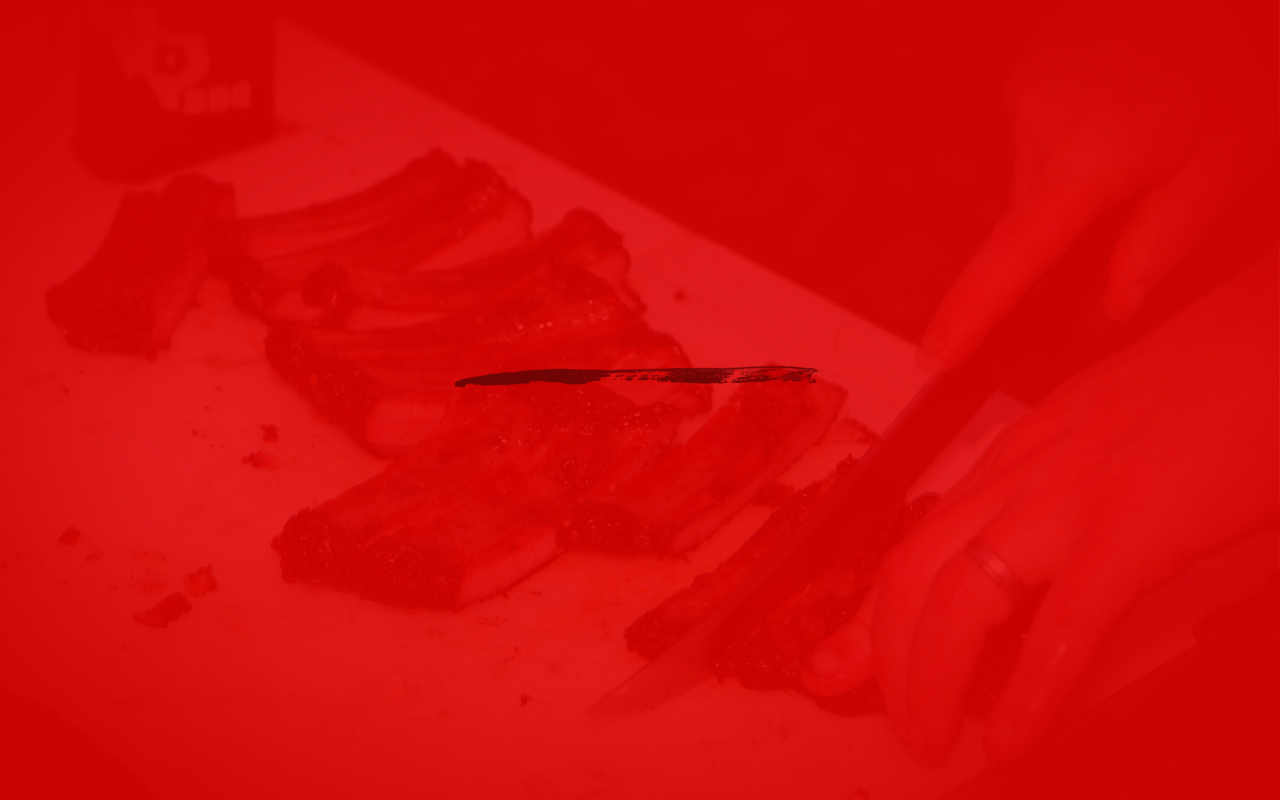
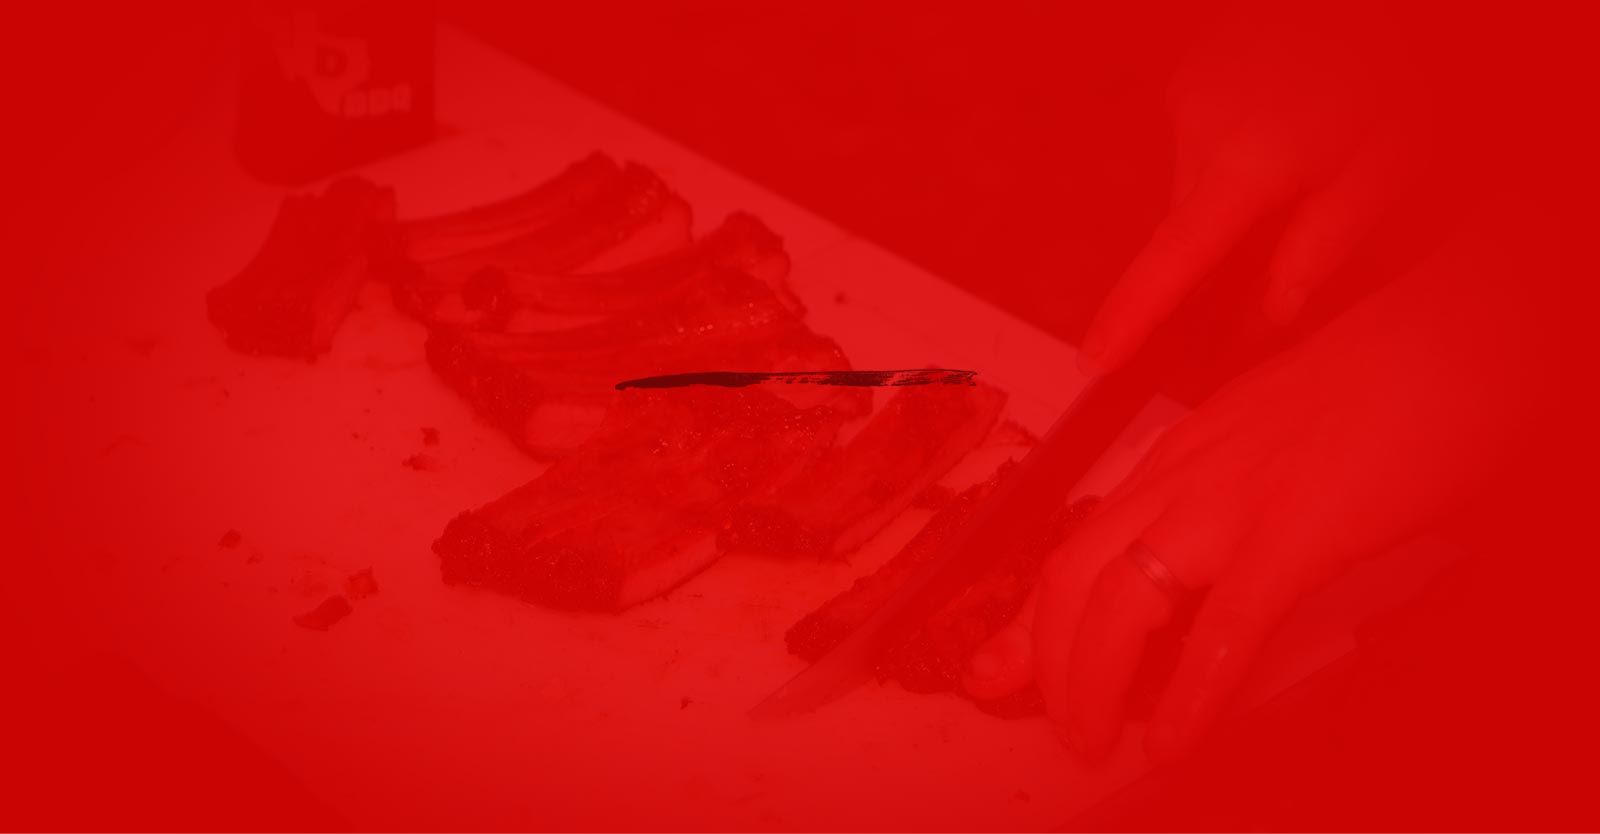
Revised images, added store

diff --git a/source/stylesheets/main.sass b/source/stylesheets/main.sass
@@ -25,6 +25,7 @@ body
     padding: 56px 0 0 0
     text-align: center
     background: url('/images/sake-background.jpg') no-repeat center top
+    background-color: $black
     .sake-graphic
       display: inline-block
       clear: both
@@ -39,41 +40,46 @@ body
     height: 804px
     width: $site-width
     margin: 0
+    background-color: $sauce
     .sauce-graphic
       display: inline-block
       background: url('/images/sauce-bottles.png') no-repeat center
       width: $site-width
       height: 558px
       padding: 309px 0 0 0
-      .copy-left
-        float: left
-        text-align: right
-        width: 192px
-        margin: 0 0 0 200px
-        color: $gold
-        h6
-          color: $brown
-      .copy-right
-        text-align: left
-        float: right
-        text-align: left
-        width: 192px
-        margin: 0 180px 0 0
-        color: $gold
-        h6
-          color: $brown
+      .copy-wrapper
+        width: 1000px
+        margin: 0 auto 0
+        .copy-left
+          float: left
+          text-align: right
+          width: 192px
+          margin: 0 0 0 70px
+          color: $gold
+          h6
+            color: $brown
+        .copy-right
+          text-align: left
+          float: right
+          text-align: left
+          width: 192px
+          margin: 0 50px 0 0
+          color: $gold
+          h6
+            color: $brown
       .five-star
         clear: both
         width: 271px
         margin: 352px auto 0
   .bbq
     width: $site-width
-    height: 800px
+    height: 834px
+    background-color: $bbq
     .bbq-graphic
       display: block
       background: url('/images/bbq-background.jpg') no-repeat center
       width: $site-width
-      height: 800px
+      height: 834px
       .we-make-bbq
         padding: 160px 0 0 0
         width: 312px
@@ -92,6 +98,7 @@ body
               font-size: 32px
   .respect
     margin: 0
+    background-color: $respect
     .respect-graphic
       display: block
       background: url('/images/respect.jpg') no-repeat center
@@ -99,7 +106,7 @@ body
       height: 777px
   .stars-border
     display: block
-    background: url('/images/stars-border.jpg') no-repeat center
+    background: url('/images/stars-border.jpg') repeat center
     width: $site-width
     height: 25px
   .menu
@@ -199,3 +206,27 @@ body
     background: url('/images/map.jpg') no-repeat center
     width: $site-width
     height: 347px
+
+  .store
+    height: 700px
+    width: $site-width
+    background: url('/images/stores.jpg') no-repeat center
+    background-color: $black
+    .store-text
+      margin: 0 auto 0
+      width: 530px
+      text-align: left
+      padding: 0 0 0 150px
+      h1, h2, h4
+        font-family: $clabol
+        text-transform: none
+        color: $white
+        line-height: 25px
+        +text-shadow(rgba($black, .6) -3px 4px 3px)
+      h1
+        font-size: 72px
+        padding: 280px 0 0 0
+      h2
+        font-size: 48px
+      h4
+        font-size: 28px

diff --git a/source/stylesheets/_variables.sass b/source/stylesheets/_variables.sass
@@ -1,5 +1,5 @@
 // Global Variables
-$site-width: 1280px
+$site-width: 100%
 
 // Global Colors
 $black: #000000
@@ -8,6 +8,11 @@ $gold: #bca572
 $red: #e54651
 $dark: #200201
 $brown: #493130
+
+// Background Colors
+$sauce: #fbf1ea
+$bbq: #c90404
+$respect: #eae1d3
 
 // Type colors
 $bbqtype: #e7dbc6
